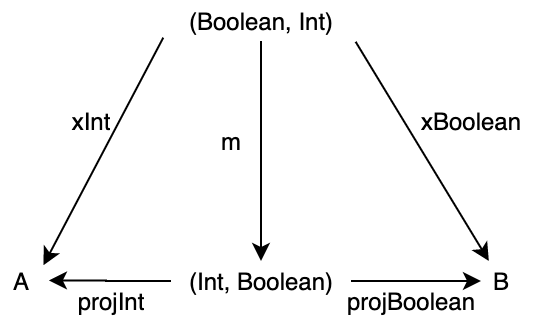
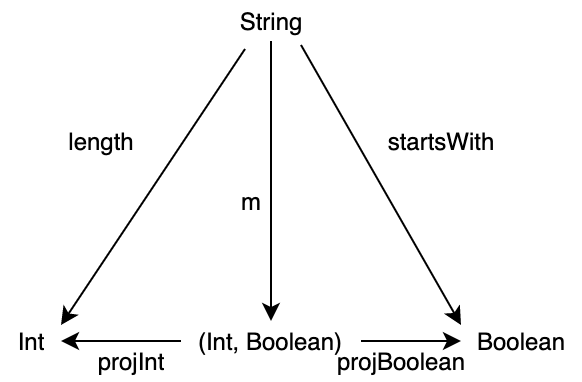
ちょっと修正

diff --git a/docs/src/main/05_Products_and_Coproducts.md b/docs/src/main/05_Products_and_Coproducts.md
@@ -79,19 +79,19 @@ def g: Unit => Boolean = _ => false
 
 同型については1章で少し話しましたが、一度思い出してみましょう。対象 `A` から対象 `B` への射 `f` に逆射 `g` が存在するとき、またそのときに限って `A` と `B` は同型であると言われます。つまり、同型な対象の間は相互に変換可能であることを意味します。
 
-始対象が同型を除いて一意であるとは、任意の2つの始対象が同型であることを意味します。具体的に、2つの始対象を i1 と i2 として考えてみましょう。i1 は始対象なので、定義より任意の対象への射をただ1つ持っていて、i1 から i2 への一意の射 `f` が存在します。一方で、i2 は始対象なので、定義より i2 から i1 への一意の射 `g` が存在します。この2つの射を合成して `g compose f` を考えます。`g compose f` は i1 から i1 への射です。しかし、i1 から i1 への射はただ1つであり、圏の公理よりそれは恒等射です。すなわち
+始対象が同型を除いて一意であるとは、任意の2つの始対象が同型であることを意味します。具体的に、2つの始対象を I1 と I2 として考えてみましょう。I1 は始対象なので、定義より任意の対象への射をただ1つ持っていて、I1 から i2 への一意の射 `f` が存在します。一方で、I2 は始対象なので、定義より I2 から I1 への一意の射 `g` が存在します。この2つの射を合成して `g compose f` を考えます。`g compose f` は I1 から I1 への射です。しかし、I1 から I1 への射はただ1つであり、圏の公理よりそれは恒等射です。すなわち
 
 ```
-g compose f = id[i1]
+g compose f = id[I1]
 ```
 
-が成り立ちます。同様に `f compose g` を考えると、これは i2 から i2 への射です。i2 から i2 への射もただ1つであって、圏の公理よりそれは恒等射になります。
+が成り立ちます。同様に `f compose g` を考えると、これは I2 から I2 への射です。I2 から I2 への射もただ1つであって、圏の公理よりそれは恒等射になります。
 
 ```
-f compose g = id[i2]
+f compose g = id[I2]
 ```
 
-したがって、2つの始対象 i1 と i2 は同型です。このような性質を同型を除いて一意であると言います。
+したがって、2つの始対象 I1 と I2 は同型です。このような性質を同型を除いて一意であると言います。
 
 ## 5.2 終対象
 
@@ -138,21 +138,20 @@ def unit[A]: A => Unit = _ => ()
 簡単に言えば、積は2つの対象のタプルを表します。Scala において、積はタプルやケースクラスとして組み込まれています。
 
 ```scala
-// product as tuple
 val pairTuple: (Int, Boolean) = (44, true)
 // pairTuple: (Int, Boolean) = (44, true)
 ```
 
 ```scala
-// product as case class
 case class Pair(a: Int, b: Boolean)
+
 val pairCaseClass = Pair(44, true)
 // pairCaseClass: Pair = Pair(a = 44, b = true)
 ```
 
 積は、圏論において以下のように定義されます。
 
-圏の2つの対象 `A` と `B` に対して、対象 `C` とその射 `projA: C => A`、`projB: C => B` の三つ組 `<C, projA, projB>` が `A` と `B` の**積** (product) であるとは、ある対象 `X` とその射 `xA': X => A`、`xB: X => B` の三つ組 `<X, xA, xB>` に対して `X` から `C` への一意の射 `m` が存在して
+圏の2つの対象 `A` と `B` に対して、対象 `C` とその射 `projA: C => A`、`projB: C => B` の三つ組 `<C, projA, projB>` が `A` と `B` の**積** (product) であるとは、ある対象 `X` とその射 `xA: X => A`、`xB: X => B` の三つ組 `<X, xA, xB>` に対して `X` から `C` への一意の射 `m` が存在して
 
 ```
 projA compose m == xA
@@ -186,29 +185,32 @@ projBoolean((44, true))
 ```scala
 def fst[A, B]: ((A, B)) => A = _._1
 def snd[A, B]: ((A, B)) => B = _._2
+
 fst((44, true))
 // res2: Int = 44
 snd((44, true))
 // res3: Boolean = true
 ```
 
-そして、もう1つ `A` と `B` への射影 `xA`、`xB` が存在する対象 `X` を考えます。この `X` について、`X` から `C` への射 `m` を考えます。例えば、`C` が `(Int, Boolean)` で `X` が `(Boolean, Int)` であったとしましょう。`X` の射影は以下のようになっているとします。
+そして、もう1つ `A` と `B` への射影 `xA`、`xB` が存在する対象 `X` を考えます。この `X` について、`X` から `C` への射 `m` を考えます。例えば、`C` が `(Int, Boolean)` で `X` が `String` であったとしましょう。`X` の射影は以下のようになっているとします。
 
 ```scala
-def xInt: ((Boolean, Int)) => Int = _._2
-def xBoolean: ((Boolean, Int)) => Boolean = _._1
-xInt((true, 44))
-// res4: Int = 44
-xBoolean((true, 44))
+def xInt: String => Int = _.length
+def xBoolean: String => Boolean = _.startsWith("a")
+
+xInt("abcdefg")
+// res4: Int = 7
+xBoolean("abcdefg")
 // res5: Boolean = true
 ```
 
-この射影に対して、射 `m: X => C` すなわち `m: (Boolean, Int) => (Int, Boolean)` は
+この射影に対して、射 `m: X => C` すなわち `m: String => (Int, Boolean)` は
 
 ```scala
-def m: ((Boolean, Int)) => ((Int, Boolean)) = x => (xInt(x), xBoolean(x))
-m((true, 44))
-// res6: (Int, Boolean) = (44, true)
+def m: String => ((Int, Boolean)) = x => (xInt(x), xBoolean(x))
+
+m("abcdefg")
+// res6: (Int, Boolean) = (7, true)
 ```
 
 と定義できます。もちろん、射 `m` は適当に `(1, false)` などと返すよう定義することも可能なのですが、もう1つ制約があるために、`m` は一意に定義されることになります。`C` が `A` と `B` の積であるためには、`m` に対して以下が成り立つ必要があります。
@@ -221,9 +223,9 @@ projBoolean compose m == xBoolean
 先ほどの `m` の定義は、これを満たします。
 
 ```scala
-(projInt compose m)((true, 44)) == xInt((true, 44))
+(projInt compose m)("abcdefg") == xInt("abcdefg")
 // res7: Boolean = true
-(projBoolean compose m)((true, 44)) == xBoolean((true, 44))
+(projBoolean compose m)("abcdefg") == xBoolean("abcdefg")
 // res8: Boolean = true
 ```
 

diff --git a/docs/src/drafts/05_Products_and_Coproducts.md b/docs/src/drafts/05_Products_and_Coproducts.md
@@ -138,19 +138,18 @@ def unit[A]: A => Unit = _ => ()
 簡単に言えば、積は2つの対象のタプルを表します。Scala において、積はタプルやケースクラスとして組み込まれています。
 
 ```scala mdoc
-// product as tuple
 val pairTuple: (Int, Boolean) = (44, true)
 ```
 
 ```scala mdoc
-// product as case class
 case class Pair(a: Int, b: Boolean)
+
 val pairCaseClass = Pair(44, true)
 ```
 
 積は、圏論において以下のように定義されます。
 
-圏の2つの対象 `A` と `B` に対して、対象 `C` とその射 `projA: C => A`、`projB: C => B` の三つ組 `<C, projA, projB>` が `A` と `B` の**積** (product) であるとは、ある対象 `X` とその射 `xA': X => A`、`xB: X => B` の三つ組 `<X, xA, xB>` に対して `X` から `C` への一意の射 `m` が存在して
+圏の2つの対象 `A` と `B` に対して、対象 `C` とその射 `projA: C => A`、`projB: C => B` の三つ組 `<C, projA, projB>` が `A` と `B` の**積** (product) であるとは、ある対象 `X` とその射 `xA: X => A`、`xB: X => B` の三つ組 `<X, xA, xB>` に対して `X` から `C` への一意の射 `m` が存在して
 
 ```
 projA compose m == xA
@@ -182,24 +181,27 @@ projBoolean((44, true))
 ```scala mdoc
 def fst[A, B]: ((A, B)) => A = _._1
 def snd[A, B]: ((A, B)) => B = _._2
+
 fst((44, true))
 snd((44, true))
 ```
 
-そして、もう1つ `A` と `B` への射影 `xA`、`xB` が存在する対象 `X` を考えます。この `X` について、`X` から `C` への射 `m` を考えます。例えば、`C` が `(Int, Boolean)` で `X` が `(Boolean, Int)` であったとしましょう。`X` の射影は以下のようになっているとします。
+そして、もう1つ `A` と `B` への射影 `xA`、`xB` が存在する対象 `X` を考えます。この `X` について、`X` から `C` への射 `m` を考えます。例えば、`C` が `(Int, Boolean)` で `X` が `String` であったとしましょう。`X` の射影は以下のようになっているとします。
 
 ```scala mdoc
-def xInt: ((Boolean, Int)) => Int = _._2
-def xBoolean: ((Boolean, Int)) => Boolean = _._1
-xInt((true, 44))
-xBoolean((true, 44))
+def xInt: String => Int = _.length
+def xBoolean: String => Boolean = _.startsWith("a")
+
+xInt("abcdefg")
+xBoolean("abcdefg")
 ```
 
-この射影に対して、射 `m: X => C` すなわち `m: (Boolean, Int) => (Int, Boolean)` は
+この射影に対して、射 `m: X => C` すなわち `m: String => (Int, Boolean)` は
 
 ```scala mdoc
-def m: ((Boolean, Int)) => ((Int, Boolean)) = x => (xInt(x), xBoolean(x))
-m((true, 44))
+def m: String => ((Int, Boolean)) = x => (xInt(x), xBoolean(x))
+
+m("abcdefg")
 ```
 
 と定義できます。もちろん、射 `m` は適当に `(1, false)` などと返すよう定義することも可能なのですが、もう1つ制約があるために、`m` は一意に定義されることになります。`C` が `A` と `B` の積であるためには、`m` に対して以下が成り立つ必要があります。
@@ -212,8 +214,8 @@ projBoolean compose m == xBoolean
 先ほどの `m` の定義は、これを満たします。
 
 ```scala mdoc
-(projInt compose m)((true, 44)) == xInt((true, 44))
-(projBoolean compose m)((true, 44)) == xBoolean((true, 44))
+(projInt compose m)("abcdefg") == xInt("abcdefg")
+(projBoolean compose m)("abcdefg") == xBoolean("abcdefg")
 ```
 
 すなわち、`C` が `A` と `B` の積であるための条件は、`A` の成分と `B` の成分で分解して計算できることだとわかります。
